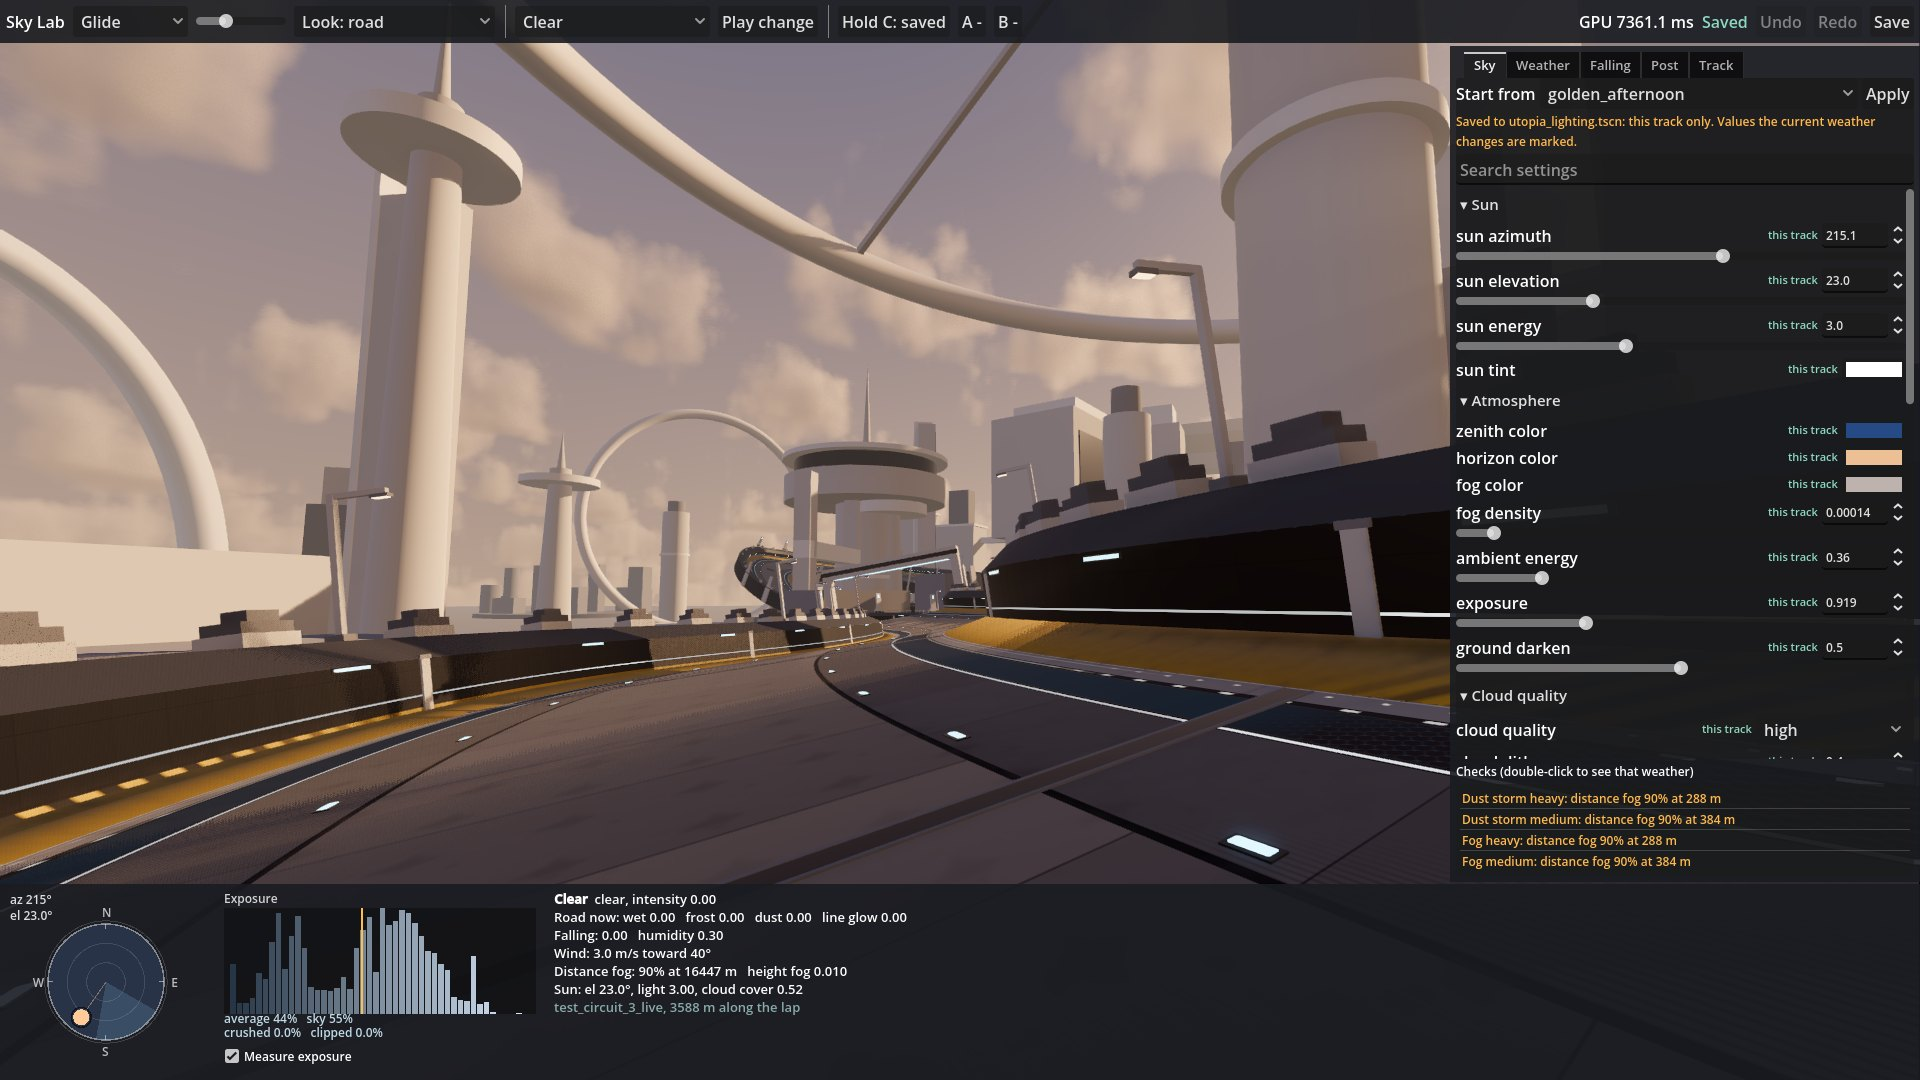
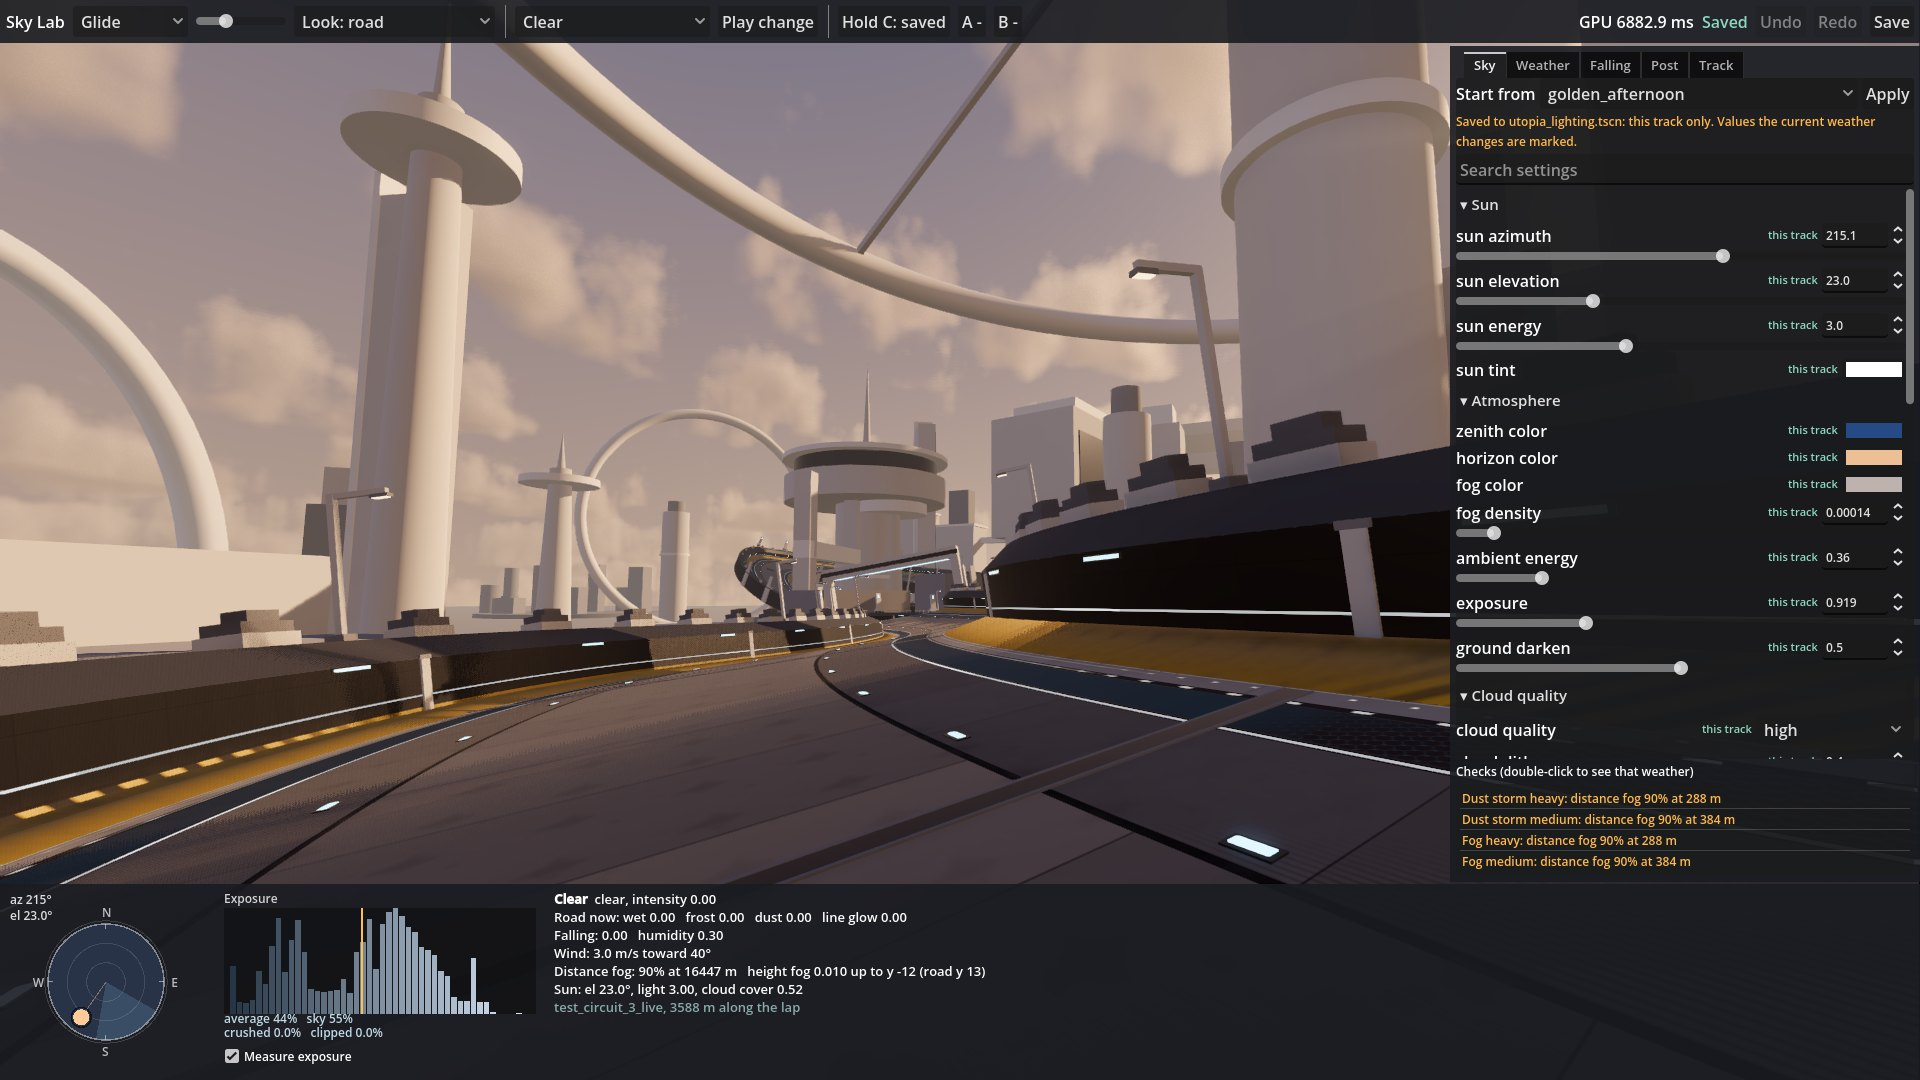
Sky Lab: notes on the tour, the readout and Utopia's height fog
Claude-Session: https://claude.ai/code/session_01AY6psELc1k9Y1KGgspowvE

diff --git a/FTF_SKY_LAB.md b/FTF_SKY_LAB.md
@@ -38,7 +38,8 @@ godot --path full_throttle_flux res://tools/sky_lab/sky_lab.tscn
 - **Exposure:** a luma histogram of the 3D view after tonemapping, with the
   average, the sky's average (top quarter), crushed (< 2%) and clipped (> 98%).
 - **Readout:** what EnvironmentState is publishing (wetness, frost, dust,
-  falling, wind), the distance fog's 90% distance, the sun's actual light.
+  falling, wind), the distance fog's 90% distance, the height fog's top
+  against the road's height, the sun's actual light.
 - **Checks:** sky presets that don't exist, `sky_mood` with no sky preset,
   precipitation that does nothing (or nothing falling), distance fog that hides
   the road within 400 m, a look whose max length is under its min, volumetric
@@ -91,10 +92,18 @@ uids, ordering and everything else byte for byte.
 and writes only to `user://sky_lab`. It checks: the looks match v35, every
 weather on and off leaves the authored values alone, edits reach the
 controller, Environment, road and rain, undo / redo / compare / Start from,
-and that a redirected save loads back with the edits and changes only the
-edited lines.
+that a redirected save loads back with the edits and changes only the
+edited lines, and that Play change goes from clear to the full weather.
+39 checks, all passing headless.
 
-`LAB_TOUR=<folder>` retakes the tutorial's screenshots (`sky_lab_tour.gd`).
+The existing `tools/env/env_selftest_boot.gd` covers WeatherFx in a race
+(snow falls in the open, cut out under cover) on the PrecipLook version.
+
+`LAB_TOUR=<folder>` retakes the tutorial's screenshots (`sky_lab_tour.gd`);
+`LAB_TOUR_ONLY=a,b` retakes the shots starting with those prefixes, and
+`LAB_TOUR_ONLY=probe` shoots 16 spots round the lap to choose its view. The
+mid-race change is timed on game time: under a slow renderer a frame's delta
+is clamped, so wall-clock timing shows almost no change.
 
 Not covered, so it needs a person:
 - **GPU cost on real hardware.** This branch was built in a cloud sandbox with
@@ -102,6 +111,16 @@ Not covered, so it needs a person:
   exposure readout off (it reads the frame back twice a second) and compare
   the GPU figure with and without the lab's changes.
 - Dragging the sun with a real mouse, and whether the panels feel right.
+
+## Worth knowing from the tutorial shots
+- **Utopia's height fog does nothing in clear weather.** Its `fog_height` is
+  -12 and the road averages y 13, so the layer sits under the road. The fog
+  weathers move it (`road_mean_y + height_fog_top`), which is why they work.
+  If the clear-weather look should have ground haze, raise `fog_height` on
+  the Post tab.
+- **Four weathers fog the road within 400 m** (fog medium / heavy, dust storm
+  medium / heavy: 90% at 288 to 384 m). Probably intended, but at racing
+  speed that's a second or two of sight; worth a drive.
 
 ## Limits
 - **Circuits with a sky rig only.** Builder tracks (Builder Lab, Fork Lab,
